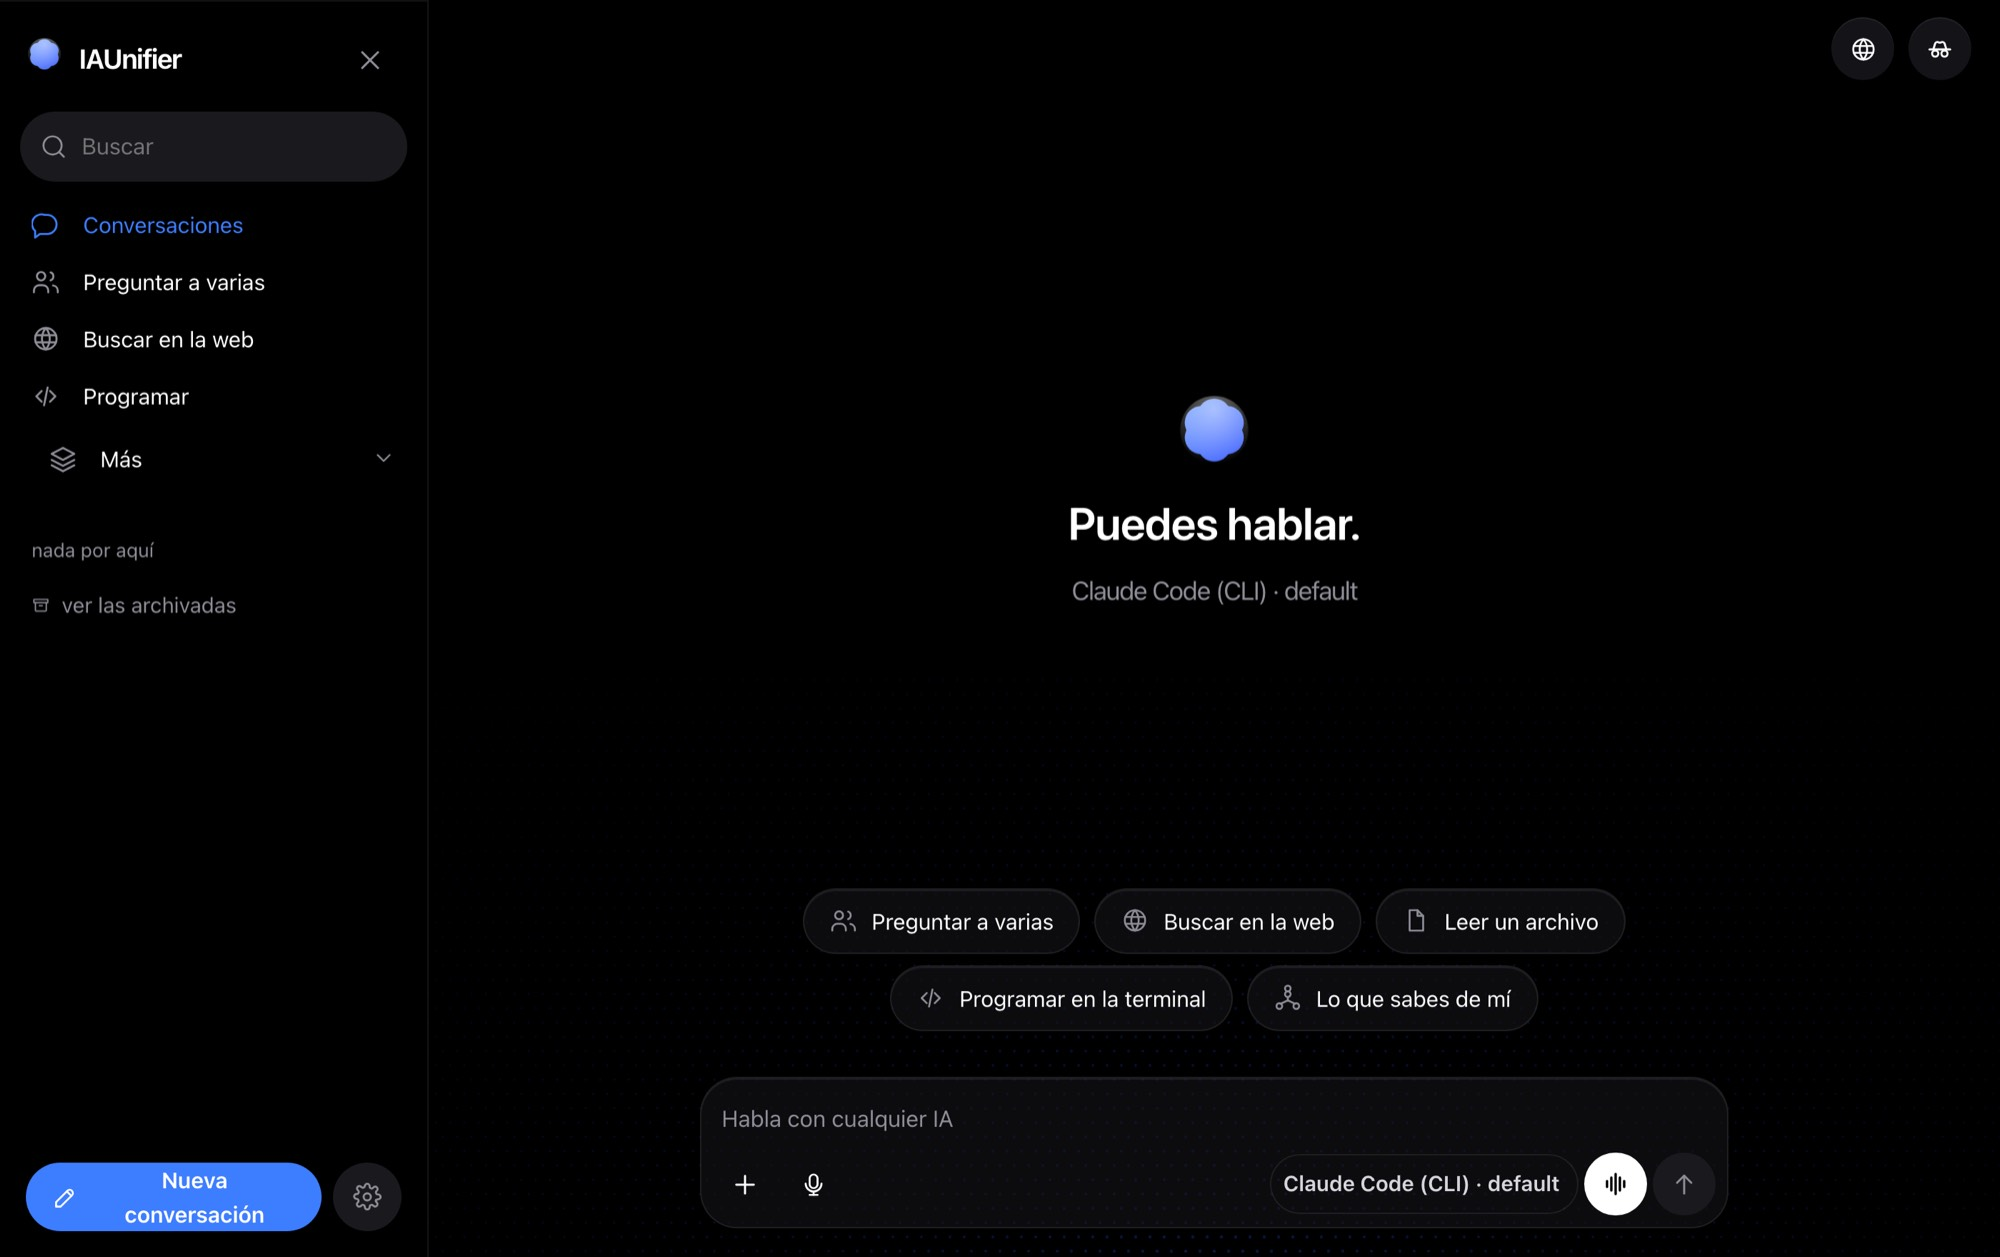
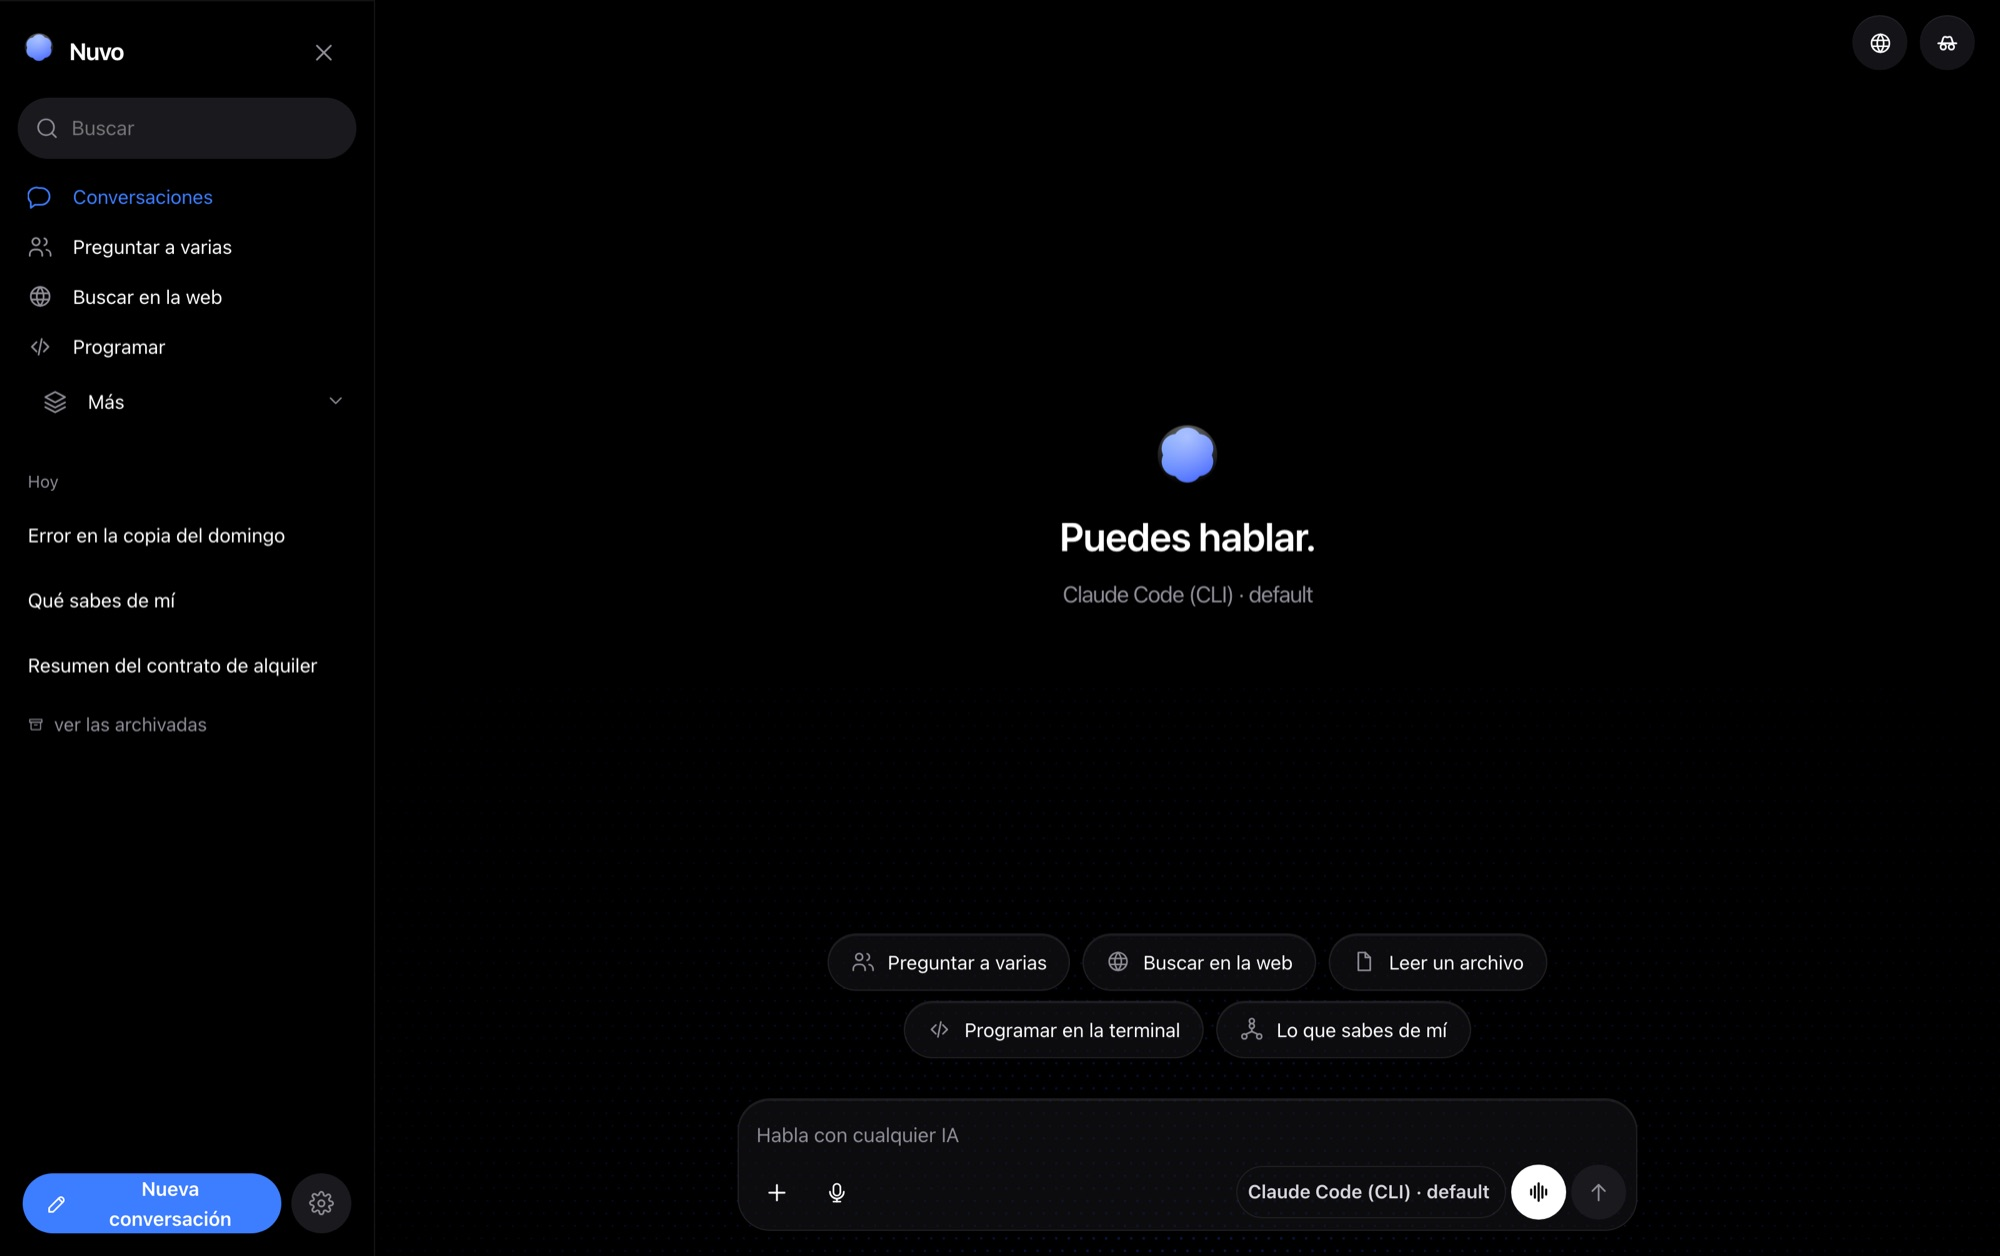
Retake the conversation screenshot under the new name
The screenshots inside the landing show the app's sidebar, and the sidebar shows
the app's name — so every one of them still advertised the previous name. This
covers the first screen, which is also the picture used for the project card on
the site.

build/capturas.py automates it: the app is started against a throwaway NUVO_HOME
and driven in a real browser, so the picture is the app rather than a mockup, and
no real conversation can leak into an image that gets published.

The other five screens are not in the script. tela-varias, tela-cli,
tela-programar and tela-agente show work that only exists after a real session,
and authoring the content would advertise something the app did not do.
tela-maquina reads the actual machine, and on a fresh home it opens with a
missing-Ollama warning across the top; it also renders the model descriptions in
Portuguese on the English screen, which is a defect to fix before it becomes a
photo.

diff --git a/build/capturas.py b/build/capturas.py
@@ -1,0 +1,178 @@
+#!/usr/bin/env python3
+"""Refaz as capturas do app que aparecem na landing e no cartão do site.
+
+    python3 build/capturas.py                # todas as telas que dão pra refazer
+    python3 build/capturas.py tela-conversa  # só uma
+
+Por que Python numa base de Node: isto não roda em produção nem entra no
+executável — é ferramenta de manutenção, e o `playwright` do Python já está
+instalado nesta máquina. O que ele faz é abrir o app de verdade num navegador de
+verdade, então a captura é o app, não uma montagem.
+
+O app é aberto numa **casa de mentira** (`NUVO_HOME` temporário), nunca na pasta
+de dados de quem roda: as imagens vão pro site, e conversa de verdade não pode
+vazar numa captura.
+
+As telas que precisam de resposta de IA de verdade (`tela-varias`, `tela-cli`,
+`tela-programar`, `tela-agente`) não estão aqui: elas mostram trabalho que só
+existe depois de uma sessão real, e inventar o conteúdo seria anunciar uma coisa
+que o app não fez. Refazer aquelas quatro é rodar a sessão à mão e capturar.
+"""
+
+import json
+import os
+import shutil
+import subprocess
+import sys
+import tempfile
+import time
+import urllib.error
+import urllib.request
+from pathlib import Path
+
+RAIZ = Path(__file__).resolve().parent.parent
+DESTINO = RAIZ / 'docs' / 'lp'
+PORTA = 4794
+
+# 1600x1005 com escala 2 dá 3200x2010, que reduz pra 2000x1257 — o tamanho das
+# imagens que já estão no site. A proporção (1.592) é a mesma.
+LARGURA, ALTURA = 1600, 1005
+LARGURA_FINAL = 2000
+
+# O cartão do projeto no nspx.dev usa uma captura de celular junto da de mesa.
+CELULAR = (390, 844)
+LARGURA_FINAL_CELULAR = 1170
+
+IDIOMAS = {'pt-BR': '', 'en': '-en', 'es': '-es'}
+
+# Cada tela: como chegar nela e o que esperar antes de bater a foto.
+TELAS = {
+    'tela-conversa': {'view': None, 'espera': '.vazio h1'},
+    # `tela-maquina` saiu daqui por enquanto. A tela lê a máquina de verdade, e
+    # numa casa de mentira ela abre com o aviso "falta o Ollama" ocupando o topo
+    # — anuncia um erro, não o produto. E as descrições dos modelos ainda saem em
+    # português na tela em inglês, que é defeito a corrigir antes de virar foto.
+    # 'tela-maquina': {'view': 'providers', 'espera': '#view-providers .panel-inner'},
+}
+
+# Títulos de conversa que aparecem na barra lateral. São de mentira, e é de
+# propósito: a alternativa seria publicar conversa de verdade de alguém.
+CONVERSAS = {
+    'pt-BR': ['O que você sabe de mim', 'Resumo do contrato de aluguel', 'Erro no backup do domingo'],
+    'en': ['What you know about me', 'Summary of the lease', 'Sunday backup error'],
+    'es': ['Qué sabes de mí', 'Resumen del contrato de alquiler', 'Error en la copia del domingo'],
+}
+
+
+def api(caminho, corpo=None):
+    dados = json.dumps(corpo).encode() if corpo is not None else None
+    pedido = urllib.request.Request(
+        f'http://127.0.0.1:{PORTA}/api{caminho}',
+        data=dados,
+        headers={'content-type': 'application/json'},
+        method='POST' if dados else 'GET',
+    )
+    with urllib.request.urlopen(pedido, timeout=20) as resposta:
+        return json.loads(resposta.read() or b'null')
+
+
+def esperar_servidor(prazo=40):
+    limite = time.time() + prazo
+    while time.time() < limite:
+        try:
+            with urllib.request.urlopen(f'http://127.0.0.1:{PORTA}/api/ping', timeout=2) as r:
+                if json.loads(r.read()).get('app') == 'nuvo':
+                    return True
+        except (urllib.error.URLError, OSError, ValueError):
+            time.sleep(0.4)
+    return False
+
+
+def reduzir(png, largura, jpg):
+    """PNG grande vira JPG do tamanho publicado. `sips` já vem no macOS."""
+    subprocess.run(['sips', '--resampleWidth', str(largura),
+                    '-s', 'format', 'jpeg', '-s', 'formatOptions', '80',
+                    str(png), '--out', str(jpg)],
+                   check=True, capture_output=True)
+
+
+def capturar(quais):
+    from playwright.sync_api import sync_playwright
+
+    casa = Path(tempfile.mkdtemp(prefix='nuvo-capturas-'))
+    (casa / 'config.json').write_text(json.dumps({'port': PORTA, 'requireToken': False}))
+
+    servidor = subprocess.Popen(
+        [shutil.which('node'), str(RAIZ / 'bin' / 'nuvo.mjs'), '--port', str(PORTA), '--no-token'],
+        env={**os.environ, 'NUVO_HOME': str(casa)},
+        stdout=subprocess.DEVNULL, stderr=subprocess.DEVNULL,
+    )
+
+    try:
+        if not esperar_servidor():
+            raise SystemExit('o servidor não subiu — veja se a porta 4794 está livre')
+
+        temporario = Path(tempfile.mkdtemp(prefix='nuvo-png-'))
+        with sync_playwright() as pw:
+            navegador = pw.chromium.launch()
+            for idioma, sufixo in IDIOMAS.items():
+                # Uma conversa de cada, no idioma da vez: a barra lateral vazia
+                # anuncia um app onde nunca aconteceu nada.
+                for titulo in CONVERSAS[idioma]:
+                    api('/chats', {'title': titulo})
+
+                for nome in quais:
+                    tela = TELAS[nome]
+                    for celular in (False, True):
+                        if celular and nome != 'tela-conversa':
+                            continue
+                        largura, altura = CELULAR if celular else (LARGURA, ALTURA)
+                        ctx = navegador.new_context(
+                            viewport={'width': largura, 'height': altura},
+                            device_scale_factor=3 if celular else 2,
+                            is_mobile=celular,
+                            locale=idioma,
+                            color_scheme='dark',
+                        )
+                        ctx.add_init_script(
+                            f"try {{ localStorage.setItem('nuvo.idioma', {json.dumps(idioma)}); }} catch {{}}")
+                        pg = ctx.new_page()
+                        pg.goto(f'http://127.0.0.1:{PORTA}/', wait_until='load')
+                        if tela['view']:
+                            # "IAs ligadas" mora dentro do <details> "Mais", que
+                            # nasce fechado: clicar no botão sem abrir antes bate
+                            # num elemento que existe e não está visível.
+                            pg.evaluate("document.getElementById('nav-mais')?.setAttribute('open', '')")
+                            pg.click(f".nav-item[data-view='{tela['view']}']")
+                        pg.wait_for_selector(tela['espera'], timeout=20_000)
+                        # A roseta abre em 700 ms e o brilho do rodapé entra
+                        # depois: bater antes pega a marca pela metade.
+                        pg.wait_for_timeout(2500)
+
+                        png = temporario / f'{nome}{sufixo}.png'
+                        pg.screenshot(path=str(png))
+                        alvo = DESTINO / f'{nome}{"-mobile" if celular else ""}{sufixo}.jpg'
+                        reduzir(png, LARGURA_FINAL_CELULAR if celular else LARGURA_FINAL, alvo)
+                        print(f'  {alvo.relative_to(RAIZ)}')
+                        ctx.close()
+
+                # Cada idioma começa do zero: senão a segunda volta acha as
+                # conversas da primeira e a barra lateral vira uma torre de Babel.
+                for chat in api('/chats'):
+                    urllib.request.urlopen(urllib.request.Request(
+                        f'http://127.0.0.1:{PORTA}/api/chats/{chat["id"]}', method='DELETE'), timeout=20)
+            navegador.close()
+        shutil.rmtree(temporario, ignore_errors=True)
+    finally:
+        servidor.terminate()
+        servidor.wait(timeout=10)
+        shutil.rmtree(casa, ignore_errors=True)
+
+
+if __name__ == '__main__':
+    pedidas = sys.argv[1:] or list(TELAS)
+    desconhecidas = [p for p in pedidas if p not in TELAS]
+    if desconhecidas:
+        raise SystemExit(f'não sei capturar: {", ".join(desconhecidas)}\nconheço: {", ".join(TELAS)}')
+    print('capturando:')
+    capturar(pedidas)
